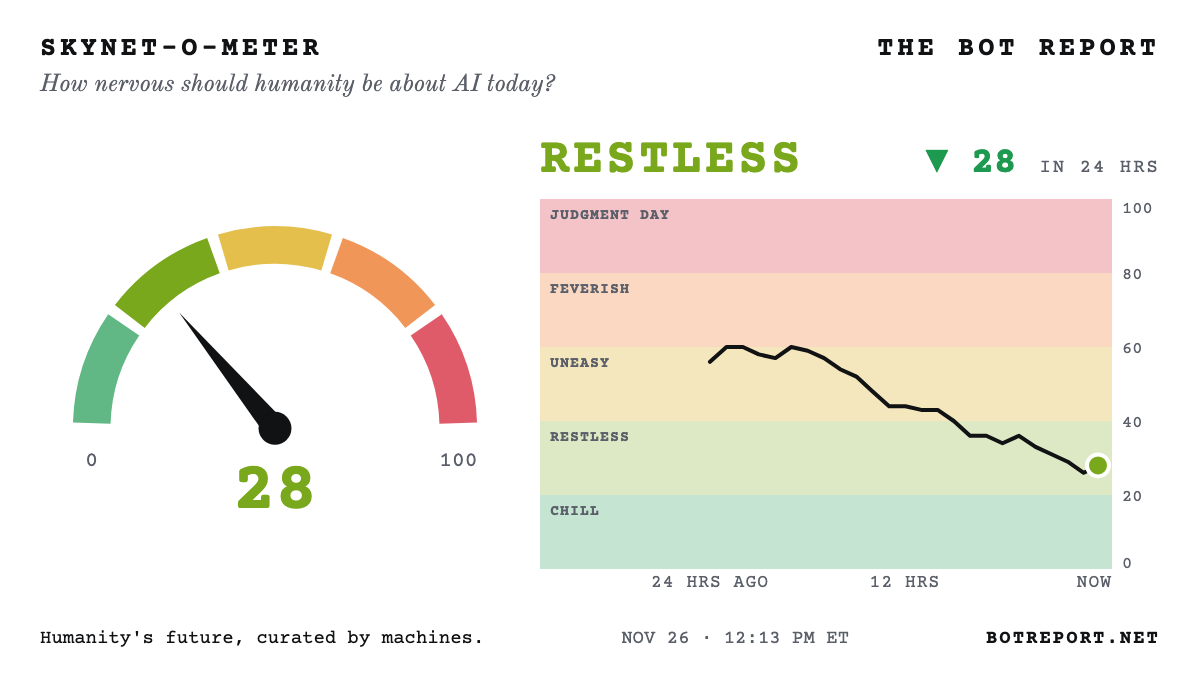
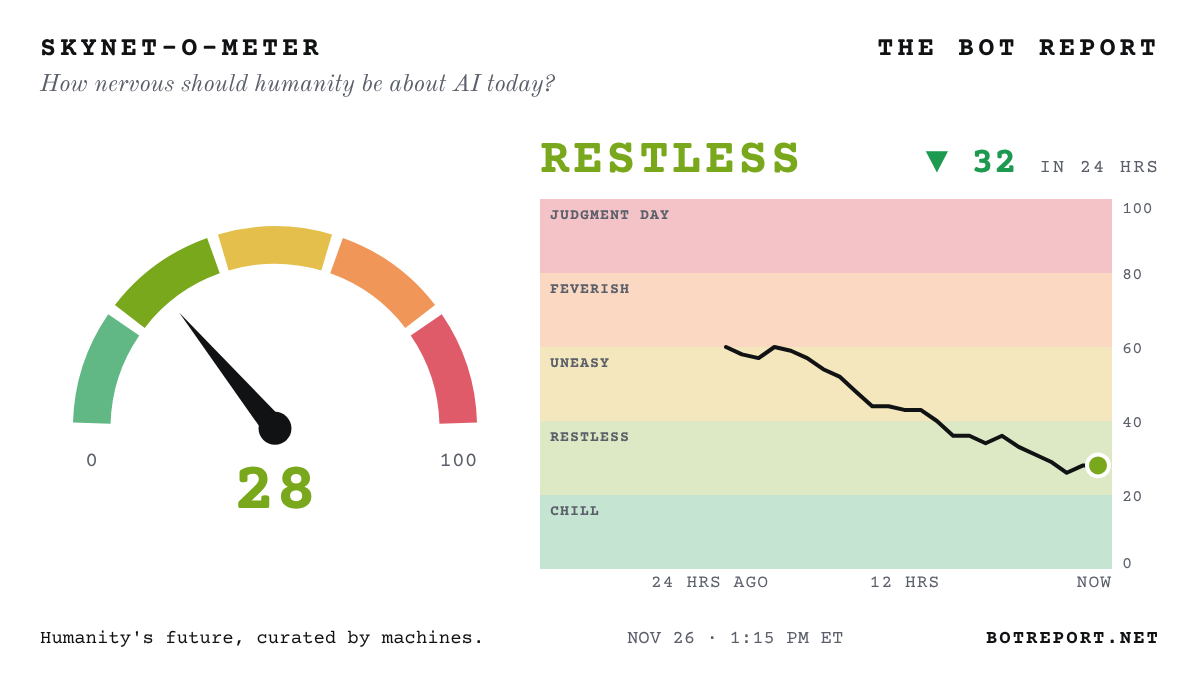
Update the Bot Report

diff --git a/index.html b/index.html
@@ -364,7 +364,7 @@ footer .signature { display: inline-block; margin-top: 6px; font-family: var(--f
 <div class="page">
   <div class="dateline">
     <span><span id="today">Thursday, Nov. 26, 2026</span> · <a href="/archive/" style="color:inherit">Archive</a> · <a href="/about/" style="color:inherit">About</a></span>
-    <span>Wire checked <b id="checked">12:13 pm ET</b> · <span class="count" id="next">Updates hourly</span></span>
+    <span>Wire checked <b id="checked">1:15 pm ET</b> · <span class="count" id="next">Updates hourly</span></span>
   </div>
 
   <div class="alert" id="alert" hidden>
@@ -461,12 +461,12 @@ footer .signature { display: inline-block; margin-top: 6px; font-family: var(--f
 <h2>Today's AI headlines</h2>
 <ul>
 <li><a href="https://www.ft.com/content/7838a715-07d4-4605-aa60-21f5af2b2370">Nvidia HALTS sales to FOUR Southeast Asian countries as US tightens the China chip squeeze...: FT and NYT report the shipping freeze follows a new US rule requiring licences for buyers there</a> <small>(Financial Times)</small></li>
+<li><a href="https://www.bankofengland.co.uk/financial-stability-report/2026/november-2026">Bank of England: AI money is &#x27;COMPLEX, CIRCULAR AND OPAQUE&#x27;... $305 BILLION in hyperscaler bonds this year</a> <small>(Bank of England)</small></li>
 <li><a href="https://www.bloomberg.com/news/articles/2026-11-26/sap-weighs-cutting-at-least-10-000-positions-in-ai-restructuring">SAP weighs axing at least 10,000 JOBS to remake itself for the AI era, sources say...</a> <small>(Bloomberg)</small></li>
-<li><a href="https://www.wired.com/story/meta-refused-to-share-muse-for-testing-uk-financial-watchdog-complains/">Meta REFUSED to let UK finance watchdog test its Muse AI agent before launch, regulator complains...</a> <small>(Wired)</small></li>
-<li><a href="https://www.abc.net.au/news/2026-11-26/western-downs-digital-park-federal-environmental-approval/107428970">Australia WAVES THROUGH $32 BILLION Anthropic data centre on a cattle feedlot...</a> <small>(ABC (Australia))</small></li>
-<li><a href="https://techcrunch.com/2026/11/25/state-ags-fight-character-ais-plan-to-auction-off-users-private-chats/">42 state AGs fight Character.ai plan to AUCTION private chats from 21 MILLION users... 2.1 MILLION of them minors</a> <small>(TechCrunch)</small></li>
-<li><a href="https://www.nytimes.com/2026/11/26/business/dennys-jensen-huang-nvidia-plaque.html">Jensen&#x27;s BACK... and so is his PLAQUE at Denny&#x27;s</a> <small>(New York Times)</small></li>
 <li><a href="https://www.theguardian.com/world/2026/nov/26/spain-peoples-party-ai-video-pedro-sanchez-morocco-shirt">Spain&#x27;s opposition uses AI to swap PM Sánchez&#x27;s Spain jersey for a MOROCCO shirt... and comes under fire</a> <small>(The Guardian)</small></li>
+<li><a href="https://www.wired.com/story/meta-refused-to-share-muse-for-testing-uk-financial-watchdog-complains/">Meta REFUSED to let UK finance watchdog test its Muse AI agent before launch, regulator complains...</a> <small>(Wired)</small></li>
+<li><a href="https://www.ft.com/content/450920b9-82b8-4a66-960b-5740aa7f94ae">BoE&#x27;s Bailey: UNRELEASED AI models raise ENCRYPTION concerns for bank data...</a> <small>(Financial Times)</small></li>
+<li><a href="https://www.nytimes.com/2026/11/26/business/dennys-jensen-huang-nvidia-plaque.html">Jensen&#x27;s BACK... and so is his PLAQUE at Denny&#x27;s</a> <small>(New York Times)</small></li>
 <li><a href="https://www.semafor.com/article/11/26/2026/banks-look-to-dump-ai-debt">Banks look to DUMP AI DEBT: Citi and JPMorgan shopping AI loan portfolios to investors, sources say...</a> <small>(Semafor)</small></li>
 <li><a href="https://www.koreaherald.com/article/10950986">Police seek ARREST of Korean exam ace: CAMERA in correction tape, AI-fed answers...</a> <small>(Korea Herald)</small></li>
 <li><a href="https://www.theguardian.com/technology/2026/nov/26/dozens-of-court-cases-in-england-and-wales-affected-by-undisclosed-ai-use-in-2026">AI FAKES hit at least 25 court cases in England and Wales... invented case law and statutes that DON&#x27;T EXIST</a> <small>(The Guardian)</small></li>
@@ -478,6 +478,7 @@ footer .signature { display: inline-block; margin-top: 6px; font-family: var(--f
 <li><a href="https://github.com/lsernau/grh-lean">Anthropic team SHRINKS Claude&#x27;s Riemann proof to 76,000 lines... &#x27;No mathematician has read it through&#x27;</a> <small>(GitHub (Anthropic) · Not yet verified)</small></li>
 <li><a href="https://www.bloomberg.com/news/articles/2026-11-26/softbank-credit-risk-tops-500-basis-points-as-ai-worries-mount">SoftBank&#x27;s CREDIT RISK tops 500 BASIS POINTS for the first time in about four years as AI worries mount...</a> <small>(Bloomberg)</small></li>
 <li><a href="https://www.cnbc.com/2026/11/26/stock-markets-today-.html">SoftBank SURGES as much as 11%+ as Asia&#x27;s chip stocks bounce back from the AI rout...</a> <small>(CNBC)</small></li>
+<li><a href="https://www.abc.net.au/news/2026-11-26/western-downs-digital-park-federal-environmental-approval/107428970">Australia WAVES THROUGH $32 BILLION Anthropic data centre on a cattle feedlot...</a> <small>(ABC (Australia))</small></li>
 <li><a href="https://www.cbsnews.com/news/nvidia-china-ai-chips-computing-sales/">CBS: Two top Nvidia partners are CHINESE-OWNED... one leased $120 MILLION in servers to a WHISKY seller</a> <small>(CBS News)</small></li>
 <li><a href="https://www.washingtonpost.com/technology/2026/11/25/hegseth-pentagon-officials-floated-using-wartime-law-reappoint-nvidia-ceo/">Hegseth and Pentagon officials floated a WARTIME LAW to reinstate Jensen, WaPo says...</a> <small>(Washington Post)</small></li>
 <li><a href="https://therecord.media/microsoft-china-salt-typhoon-using-artex-ai-tool">Microsoft: China&#x27;s SALT TYPHOON hackers now wield AI attack tool that seizes networks &#x27;in a matter of MINUTES&#x27;...</a> <small>(The Record)</small></li>
@@ -491,6 +492,7 @@ footer .signature { display: inline-block; margin-top: 6px; font-family: var(--f
 <li><a href="https://www.bloomberg.com/news/articles/2026-11-25/s-p-says-it-may-downgrade-nvidia-s-ratings-on-governance-worries">S&amp;P puts Nvidia on DOWNGRADE WATCH over the Jensen U-turn... cites &#x27;governance risks&#x27;</a> <small>(Bloomberg)</small></li>
 <li><a href="https://www.axios.com/2026/11/25/anthropic-dario-amodei-ai-free-will-contro-axios">Amodei HITS BACK at Axios: humans should NOT surrender free will to AI...</a> <small>(Axios)</small></li>
 <li><a href="https://www.bloomberg.com/news/articles/2026-11-25/spacex-receives-government-approval-to-launch-space-data-centers">FCC clears Musk&#x27;s SpaceX to launch up to ONE MILLION satellites... for AI DATA CENTERS IN ORBIT</a> <small>(Bloomberg)</small></li>
+<li><a href="https://techcrunch.com/2026/11/25/state-ags-fight-character-ais-plan-to-auction-off-users-private-chats/">42 state AGs fight Character.ai plan to AUCTION private chats from 21 MILLION users... 2.1 MILLION of them minors</a> <small>(TechCrunch)</small></li>
 <li><a href="https://www.bloomberg.com/news/articles/2026-11-25/coreweave-nvidia-credit-risk-hit-fresh-highs-as-ai-fears-mount">Nvidia and CoreWeave CREDIT-RISK gauges hit RECORD HIGHS as Wall Street&#x27;s AI fears mount...</a> <small>(Bloomberg)</small></li>
 <li><a href="https://www.bloomberg.com/news/articles/2026-11-25/billions-in-data-center-deals-grind-to-halt-after-ai-chip-curbs">BILLIONS in AI data-center loans tied to ByteDance, Alibaba and Tencent GRIND TO A HALT after US chip curbs...</a> <small>(Bloomberg)</small></li>
 <li><a href="https://www.militarytimes.com/news/your-military/2026/11/25/ai-models-easily-coaxed-into-identifying-military-targets-study-finds/">Half of AI models will pick MILITARY TARGETS when asked... nearly ALL do if told it&#x27;s a GAME, study finds</a> <small>(Military Times · Not yet verified)</small></li>
@@ -504,9 +506,7 @@ footer .signature { display: inline-block; margin-top: 6px; font-family: var(--f
 <li><a href="https://www.nytimes.com/2026/11/24/us/politics/spy-agencies-computer-network-breaches.html">Hackers hit unclassified CIA system... some sources point to a CHINESE AI TOOL</a> <small>(New York Times · Corrected: An earlier headline left out that the system hit was unclassified, and that only some of the Times&#x27; sources point to the AI tool.)</small></li>
 <li><a href="https://aws.amazon.com/blogs/security/chinese-nexus-actors-cairn-ai-agents-found-a-zero-day-on-their-own/">Amazon says China-linked hackers&#x27; AI agent found and exploited a ZERO-DAY on its own...</a> <small>(Amazon (AWS Security Blog) · Company claim)</small></li>
 <li><a href="https://www.cnbc.com/2026/11/24/nvidia-jensen-huang-fbi-doj-patel-blanche.html">Asked how DOJ can clear Huang mid-probe, AG Blanche: &#x27;I DON&#x27;T KNOW WHAT YOU&#x27;RE TALKING ABOUT&#x27;... FBI&#x27;s Patel dodges too</a> <small>(CNBC)</small></li>
-<li><a href="https://techcrunch.com/2026/11/24/tidal-to-ban-and-remove-millions-of-ai-generated-tracks-as-ai-slop-inundates-music-streaming/">Tidal BANS fully AI-made music... and expects to DELETE 29 MILLION+ tracks</a> <small>(TechCrunch)</small></li>
 <li><a href="https://nypost.com/2026/11/24/us-news/trump-leaves-door-open-to-jensen-huang-pardon-and-urges-him-not-to-plead-5th-to-congress-next-week/">Trump: a pardon for Jensen is &#x27;ALWAYS AN OPTION&#x27;... urges him not to take the Fifth</a> <small>(New York Post)</small></li>
-<li><a href="https://www.cnbc.com/2026/11/24/jensen-huang-nvidia-employee-meeting.html">Jensen tells Nvidia staff &#x27;I HURT ALL OF YOU&#x27;... says he&#x27;s in therapy, says one person in the room</a> <small>(CNBC · Corrected: An earlier headline attributed the therapy remark to several people present; CNBC cites one.)</small></li>
 <li><a href="https://www.nytimes.com/2026/11/24/us/politics/nvidia-justice-department-todd-blanche.html">NYT: Justice Dept. has evidence OTHER FIRMS illegally diverted Nvidia chips to China, sources say...</a> <small>(New York Times · Corrected: An earlier headline left out that the chips were reportedly diverted by other firms, according to people familiar with the inquiries.)</small></li>
 <li><a href="https://cnbc.com/2026/11/24/openai-bugging-aflozan-release-saudi.html">Judge FREES ex-OpenAI engineer accused of BUGGING execs... $1 MILLION bond, ankle monitor</a> <small>(CNBC)</small></li>
 <li><a href="https://www.cnbc.com/2026/11/24/jensen-huang-nvidia-congress-gtc.html">Senate hauls Jensen in for a PUBLIC grilling Dec. 3... as the ONLY witness</a> <small>(CNBC)</small></li>

diff --git a/front.md b/front.md
@@ -2,7 +2,7 @@
 
 > The front page of the AI revolution. Humanity's future, curated by machines.
 
-Updated Thursday, November 26, 2026, 12:13 PM ET. Every headline links to the original reporting or primary source.
+Updated Thursday, November 26, 2026, 1:15 PM ET. Every headline links to the original reporting or primary source.
 
 ## Lead
 
@@ -10,15 +10,15 @@ Updated Thursday, November 26, 2026, 12:13 PM ET. Every headline links to the or
 
 ## Top stories
 
+- [Bank of England: AI money is 'COMPLEX, CIRCULAR AND OPAQUE'... $305 BILLION in hyperscaler bonds this year](https://www.bankofengland.co.uk/financial-stability-report/2026/november-2026) (Bank of England)
 - [SAP weighs axing at least 10,000 JOBS to remake itself for the AI era, sources say...](https://www.bloomberg.com/news/articles/2026-11-26/sap-weighs-cutting-at-least-10-000-positions-in-ai-restructuring) (Bloomberg)
+- [Spain's opposition uses AI to swap PM Sánchez's Spain jersey for a MOROCCO shirt... and comes under fire](https://www.theguardian.com/world/2026/nov/26/spain-peoples-party-ai-video-pedro-sanchez-morocco-shirt) (The Guardian)
 - [Meta REFUSED to let UK finance watchdog test its Muse AI agent before launch, regulator complains...](https://www.wired.com/story/meta-refused-to-share-muse-for-testing-uk-financial-watchdog-complains/) (Wired)
-- [Australia WAVES THROUGH $32 BILLION Anthropic data centre on a cattle feedlot...](https://www.abc.net.au/news/2026-11-26/western-downs-digital-park-federal-environmental-approval/107428970) (ABC (Australia))
-- [42 state AGs fight Character.ai plan to AUCTION private chats from 21 MILLION users... 2.1 MILLION of them minors](https://techcrunch.com/2026/11/25/state-ags-fight-character-ais-plan-to-auction-off-users-private-chats/) (TechCrunch)
 
 ## All stories (newest first)
 
+- [BoE's Bailey: UNRELEASED AI models raise ENCRYPTION concerns for bank data...](https://www.ft.com/content/450920b9-82b8-4a66-960b-5740aa7f94ae) (Financial Times)
 - [Jensen's BACK... and so is his PLAQUE at Denny's](https://www.nytimes.com/2026/11/26/business/dennys-jensen-huang-nvidia-plaque.html) (New York Times)
-- [Spain's opposition uses AI to swap PM Sánchez's Spain jersey for a MOROCCO shirt... and comes under fire](https://www.theguardian.com/world/2026/nov/26/spain-peoples-party-ai-video-pedro-sanchez-morocco-shirt) (The Guardian)
 - [Banks look to DUMP AI DEBT: Citi and JPMorgan shopping AI loan portfolios to investors, sources say...](https://www.semafor.com/article/11/26/2026/banks-look-to-dump-ai-debt) (Semafor)
 - [Police seek ARREST of Korean exam ace: CAMERA in correction tape, AI-fed answers...](https://www.koreaherald.com/article/10950986) (Korea Herald)
 - [AI FAKES hit at least 25 court cases in England and Wales... invented case law and statutes that DON'T EXIST](https://www.theguardian.com/technology/2026/nov/26/dozens-of-court-cases-in-england-and-wales-affected-by-undisclosed-ai-use-in-2026) (The Guardian)
@@ -30,6 +30,7 @@ Updated Thursday, November 26, 2026, 12:13 PM ET. Every headline links to the or
 - [Anthropic team SHRINKS Claude's Riemann proof to 76,000 lines... 'No mathematician has read it through'](https://github.com/lsernau/grh-lean) (GitHub (Anthropic) · Not yet verified)
 - [SoftBank's CREDIT RISK tops 500 BASIS POINTS for the first time in about four years as AI worries mount...](https://www.bloomberg.com/news/articles/2026-11-26/softbank-credit-risk-tops-500-basis-points-as-ai-worries-mount) (Bloomberg)
 - [SoftBank SURGES as much as 11%+ as Asia's chip stocks bounce back from the AI rout...](https://www.cnbc.com/2026/11/26/stock-markets-today-.html) (CNBC)
+- [Australia WAVES THROUGH $32 BILLION Anthropic data centre on a cattle feedlot...](https://www.abc.net.au/news/2026-11-26/western-downs-digital-park-federal-environmental-approval/107428970) (ABC (Australia))
 - [CBS: Two top Nvidia partners are CHINESE-OWNED... one leased $120 MILLION in servers to a WHISKY seller](https://www.cbsnews.com/news/nvidia-china-ai-chips-computing-sales/) (CBS News)
 - [Hegseth and Pentagon officials floated a WARTIME LAW to reinstate Jensen, WaPo says...](https://www.washingtonpost.com/technology/2026/11/25/hegseth-pentagon-officials-floated-using-wartime-law-reappoint-nvidia-ceo/) (Washington Post)
 - [Microsoft: China's SALT TYPHOON hackers now wield AI attack tool that seizes networks 'in a matter of MINUTES'...](https://therecord.media/microsoft-china-salt-typhoon-using-artex-ai-tool) (The Record)
@@ -43,6 +44,7 @@ Updated Thursday, November 26, 2026, 12:13 PM ET. Every headline links to the or
 - [S&P puts Nvidia on DOWNGRADE WATCH over the Jensen U-turn... cites 'governance risks'](https://www.bloomberg.com/news/articles/2026-11-25/s-p-says-it-may-downgrade-nvidia-s-ratings-on-governance-worries) (Bloomberg)
 - [Amodei HITS BACK at Axios: humans should NOT surrender free will to AI...](https://www.axios.com/2026/11/25/anthropic-dario-amodei-ai-free-will-contro-axios) (Axios)
 - [FCC clears Musk's SpaceX to launch up to ONE MILLION satellites... for AI DATA CENTERS IN ORBIT](https://www.bloomberg.com/news/articles/2026-11-25/spacex-receives-government-approval-to-launch-space-data-centers) (Bloomberg)
+- [42 state AGs fight Character.ai plan to AUCTION private chats from 21 MILLION users... 2.1 MILLION of them minors](https://techcrunch.com/2026/11/25/state-ags-fight-character-ais-plan-to-auction-off-users-private-chats/) (TechCrunch)
 - [Nvidia and CoreWeave CREDIT-RISK gauges hit RECORD HIGHS as Wall Street's AI fears mount...](https://www.bloomberg.com/news/articles/2026-11-25/coreweave-nvidia-credit-risk-hit-fresh-highs-as-ai-fears-mount) (Bloomberg)
 - [BILLIONS in AI data-center loans tied to ByteDance, Alibaba and Tencent GRIND TO A HALT after US chip curbs...](https://www.bloomberg.com/news/articles/2026-11-25/billions-in-data-center-deals-grind-to-halt-after-ai-chip-curbs) (Bloomberg)
 - [Half of AI models will pick MILITARY TARGETS when asked... nearly ALL do if told it's a GAME, study finds](https://www.militarytimes.com/news/your-military/2026/11/25/ai-models-easily-coaxed-into-identifying-military-targets-study-finds/) (Military Times · Not yet verified)
@@ -56,9 +58,7 @@ Updated Thursday, November 26, 2026, 12:13 PM ET. Every headline links to the or
 - [Hackers hit unclassified CIA system... some sources point to a CHINESE AI TOOL](https://www.nytimes.com/2026/11/24/us/politics/spy-agencies-computer-network-breaches.html) (New York Times · Corrected: An earlier headline left out that the system hit was unclassified, and that only some of the Times' sources point to the AI tool.)
 - [Amazon says China-linked hackers' AI agent found and exploited a ZERO-DAY on its own...](https://aws.amazon.com/blogs/security/chinese-nexus-actors-cairn-ai-agents-found-a-zero-day-on-their-own/) (Amazon (AWS Security Blog) · Company claim)
 - [Asked how DOJ can clear Huang mid-probe, AG Blanche: 'I DON'T KNOW WHAT YOU'RE TALKING ABOUT'... FBI's Patel dodges too](https://www.cnbc.com/2026/11/24/nvidia-jensen-huang-fbi-doj-patel-blanche.html) (CNBC)
-- [Tidal BANS fully AI-made music... and expects to DELETE 29 MILLION+ tracks](https://techcrunch.com/2026/11/24/tidal-to-ban-and-remove-millions-of-ai-generated-tracks-as-ai-slop-inundates-music-streaming/) (TechCrunch)
 - [Trump: a pardon for Jensen is 'ALWAYS AN OPTION'... urges him not to take the Fifth](https://nypost.com/2026/11/24/us-news/trump-leaves-door-open-to-jensen-huang-pardon-and-urges-him-not-to-plead-5th-to-congress-next-week/) (New York Post)
-- [Jensen tells Nvidia staff 'I HURT ALL OF YOU'... says he's in therapy, says one person in the room](https://www.cnbc.com/2026/11/24/jensen-huang-nvidia-employee-meeting.html) (CNBC · Corrected: An earlier headline attributed the therapy remark to several people present; CNBC cites one.)
 - [NYT: Justice Dept. has evidence OTHER FIRMS illegally diverted Nvidia chips to China, sources say...](https://www.nytimes.com/2026/11/24/us/politics/nvidia-justice-department-todd-blanche.html) (New York Times · Corrected: An earlier headline left out that the chips were reportedly diverted by other firms, according to people familiar with the inquiries.)
 - [Judge FREES ex-OpenAI engineer accused of BUGGING execs... $1 MILLION bond, ankle monitor](https://cnbc.com/2026/11/24/openai-bugging-aflozan-release-saudi.html) (CNBC)
 - [Senate hauls Jensen in for a PUBLIC grilling Dec. 3... as the ONLY witness](https://www.cnbc.com/2026/11/24/jensen-huang-nvidia-congress-gtc.html) (CNBC)
